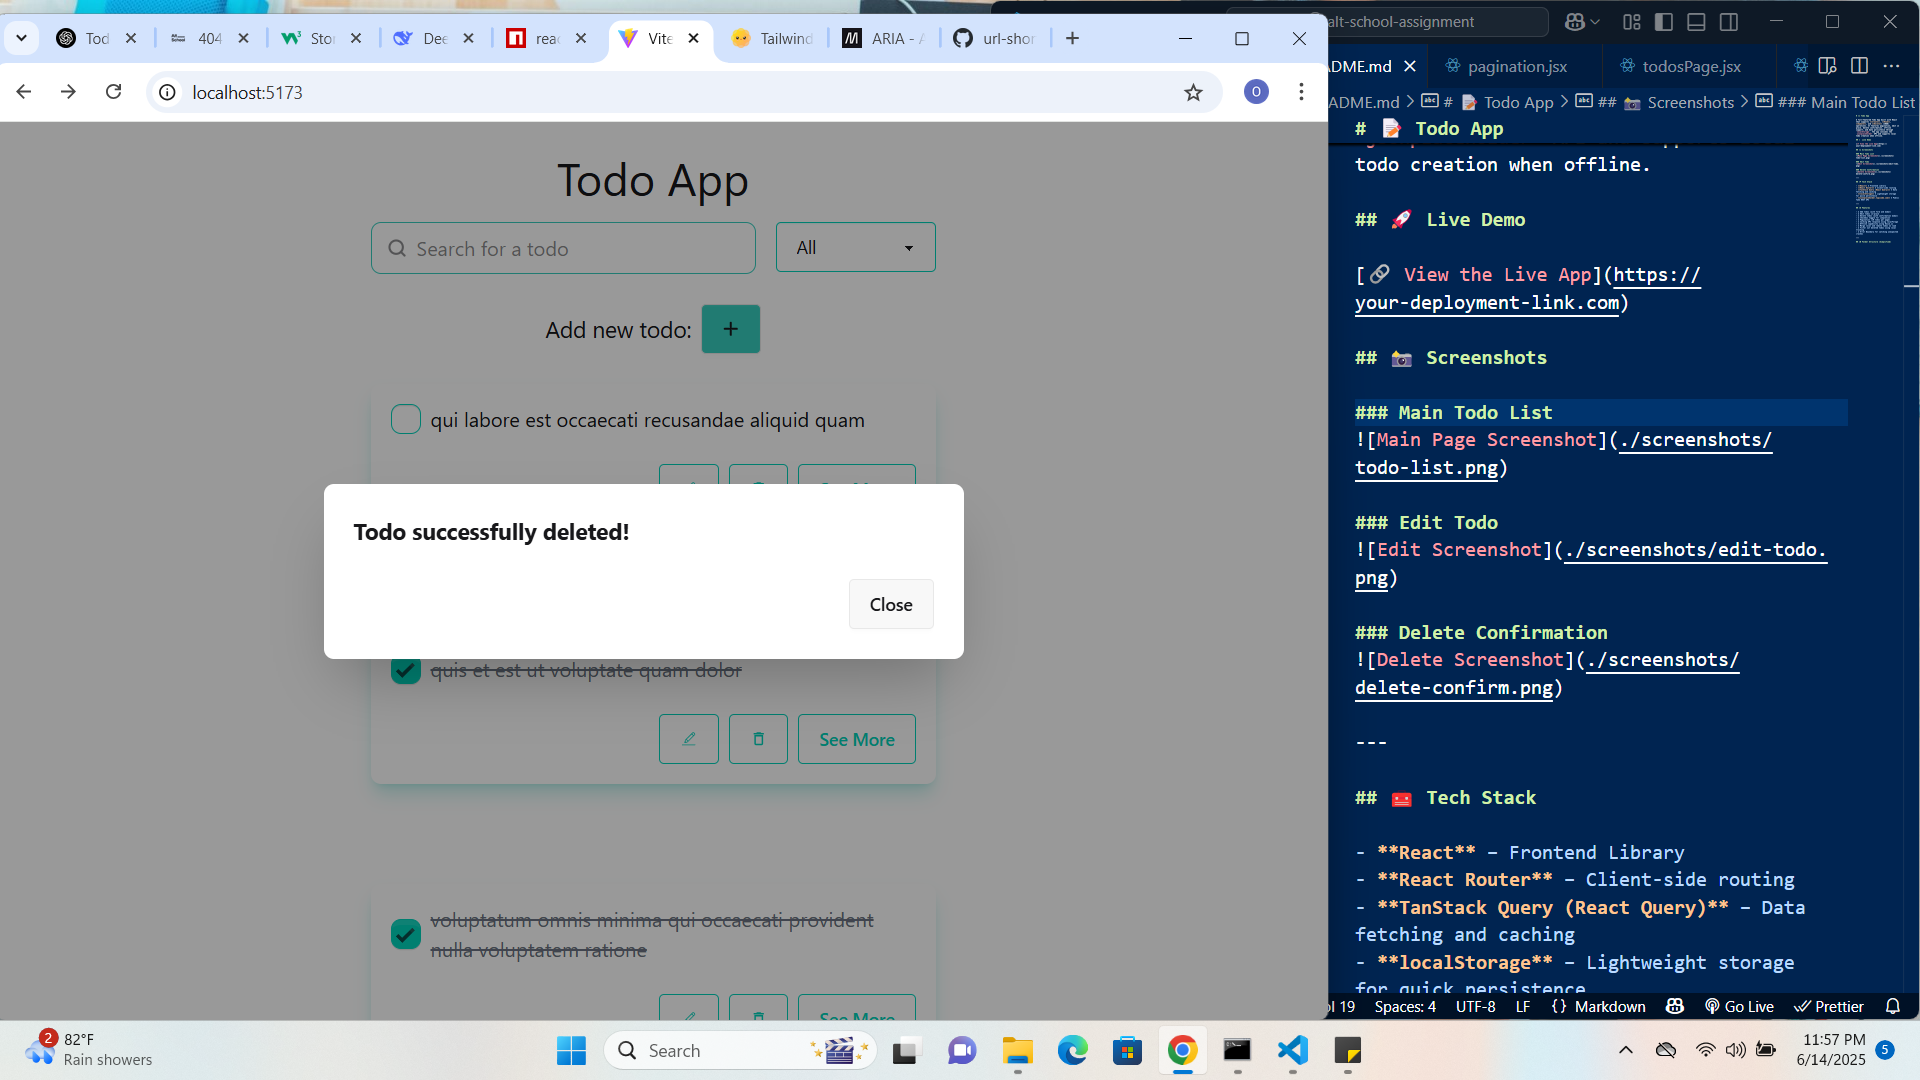
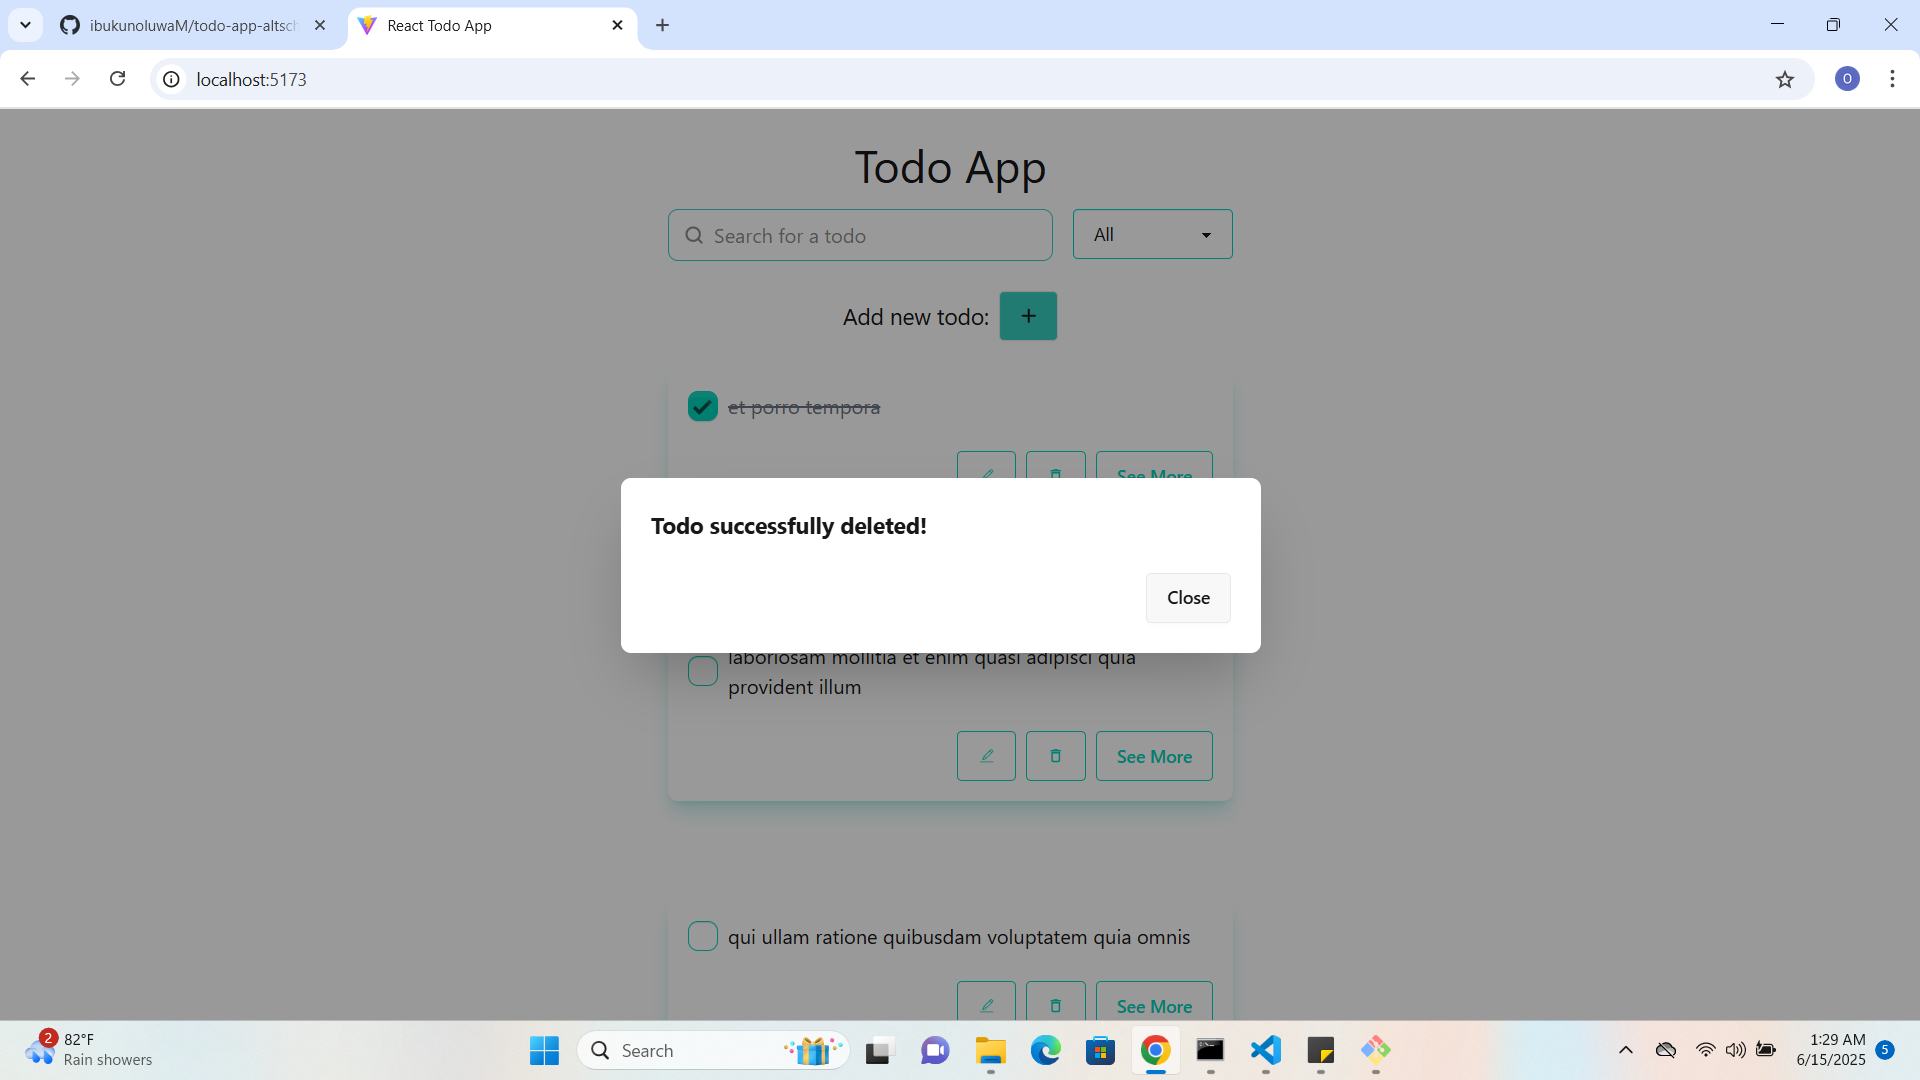
made a few changes to screenshots

diff --git a/index.html b/index.html
@@ -4,7 +4,7 @@
     <meta charset="UTF-8" />
     <link rel="icon" type="image/svg+xml" href="/vite.svg" />
     <meta name="viewport" content="width=device-width, initial-scale=1.0" />
-    <title>Vite + React</title>
+    <title>React Todo App</title>
   </head>
   <body>
     <div id="root"></div>

diff --git a/README.md b/README.md
@@ -2,10 +2,6 @@
 
 A full-featured Todo App built with React that supports **Create**, **Read**, **Update**, and **Delete** (CRUD) operations. It features pagination, edit in place, delete confirmation, offline support, and data persistence through `localStorage`. The app consumes the `jsonplaceholder` API and supports local todo creation when offline.
 
-## 🚀 Live Demo
-
-[🔗 View the Live App](https://your-deployment-link.com)
-
 ## 📸 Screenshots
 
 ### Main Todo List
@@ -18,7 +14,7 @@ A full-featured Todo App built with React that supports **Create**, **Read**, **
 ![Delete Screenshot](./screenshots/delete_confirmation.png)
 
 ### Dynamic URL of individual Todo details
-![Todo Detail](./screenshots/delete_confirmation.png)
+![Todo Detail](./screenshots/tododetail.png)
 ---
 
 ## 🧰 Tech Stack
@@ -94,4 +90,5 @@ Only local todos are truly persisted using localStorage.
 
 👤 Author
 Name: Ibukunoluwa Olateju
+
 Cohort: AltSchool Africa, Frontend Engineering – 2025
